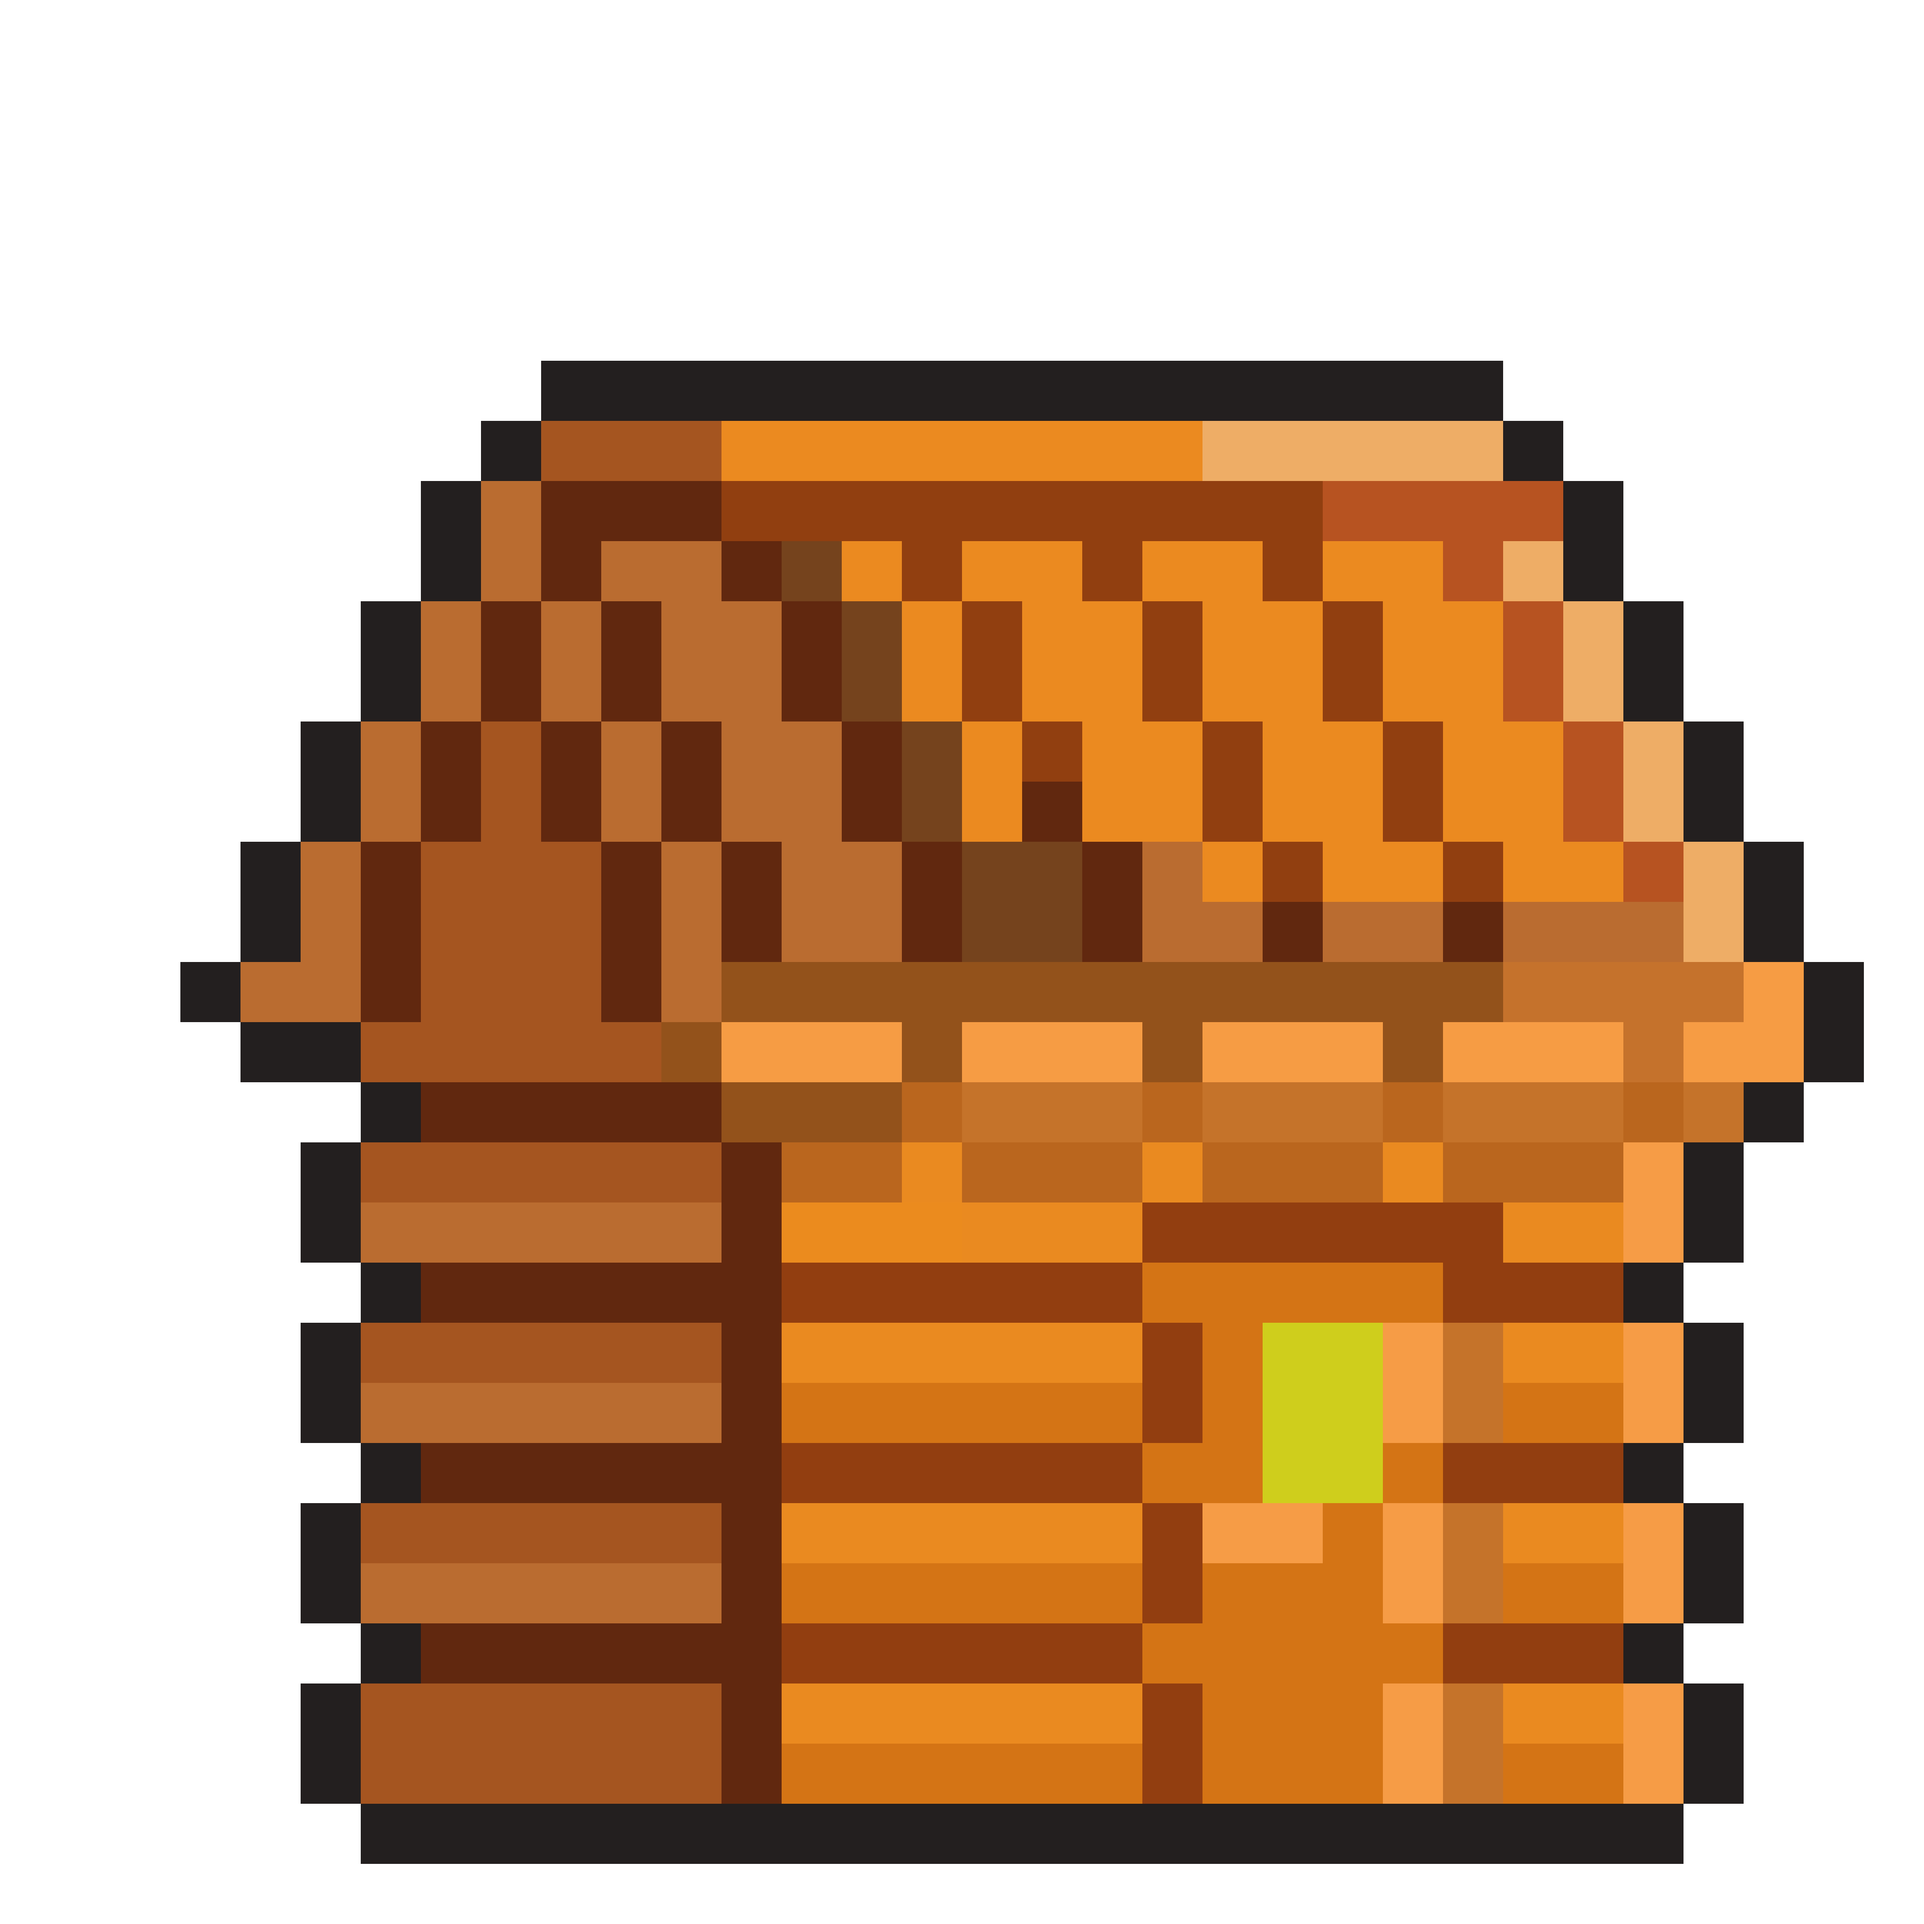
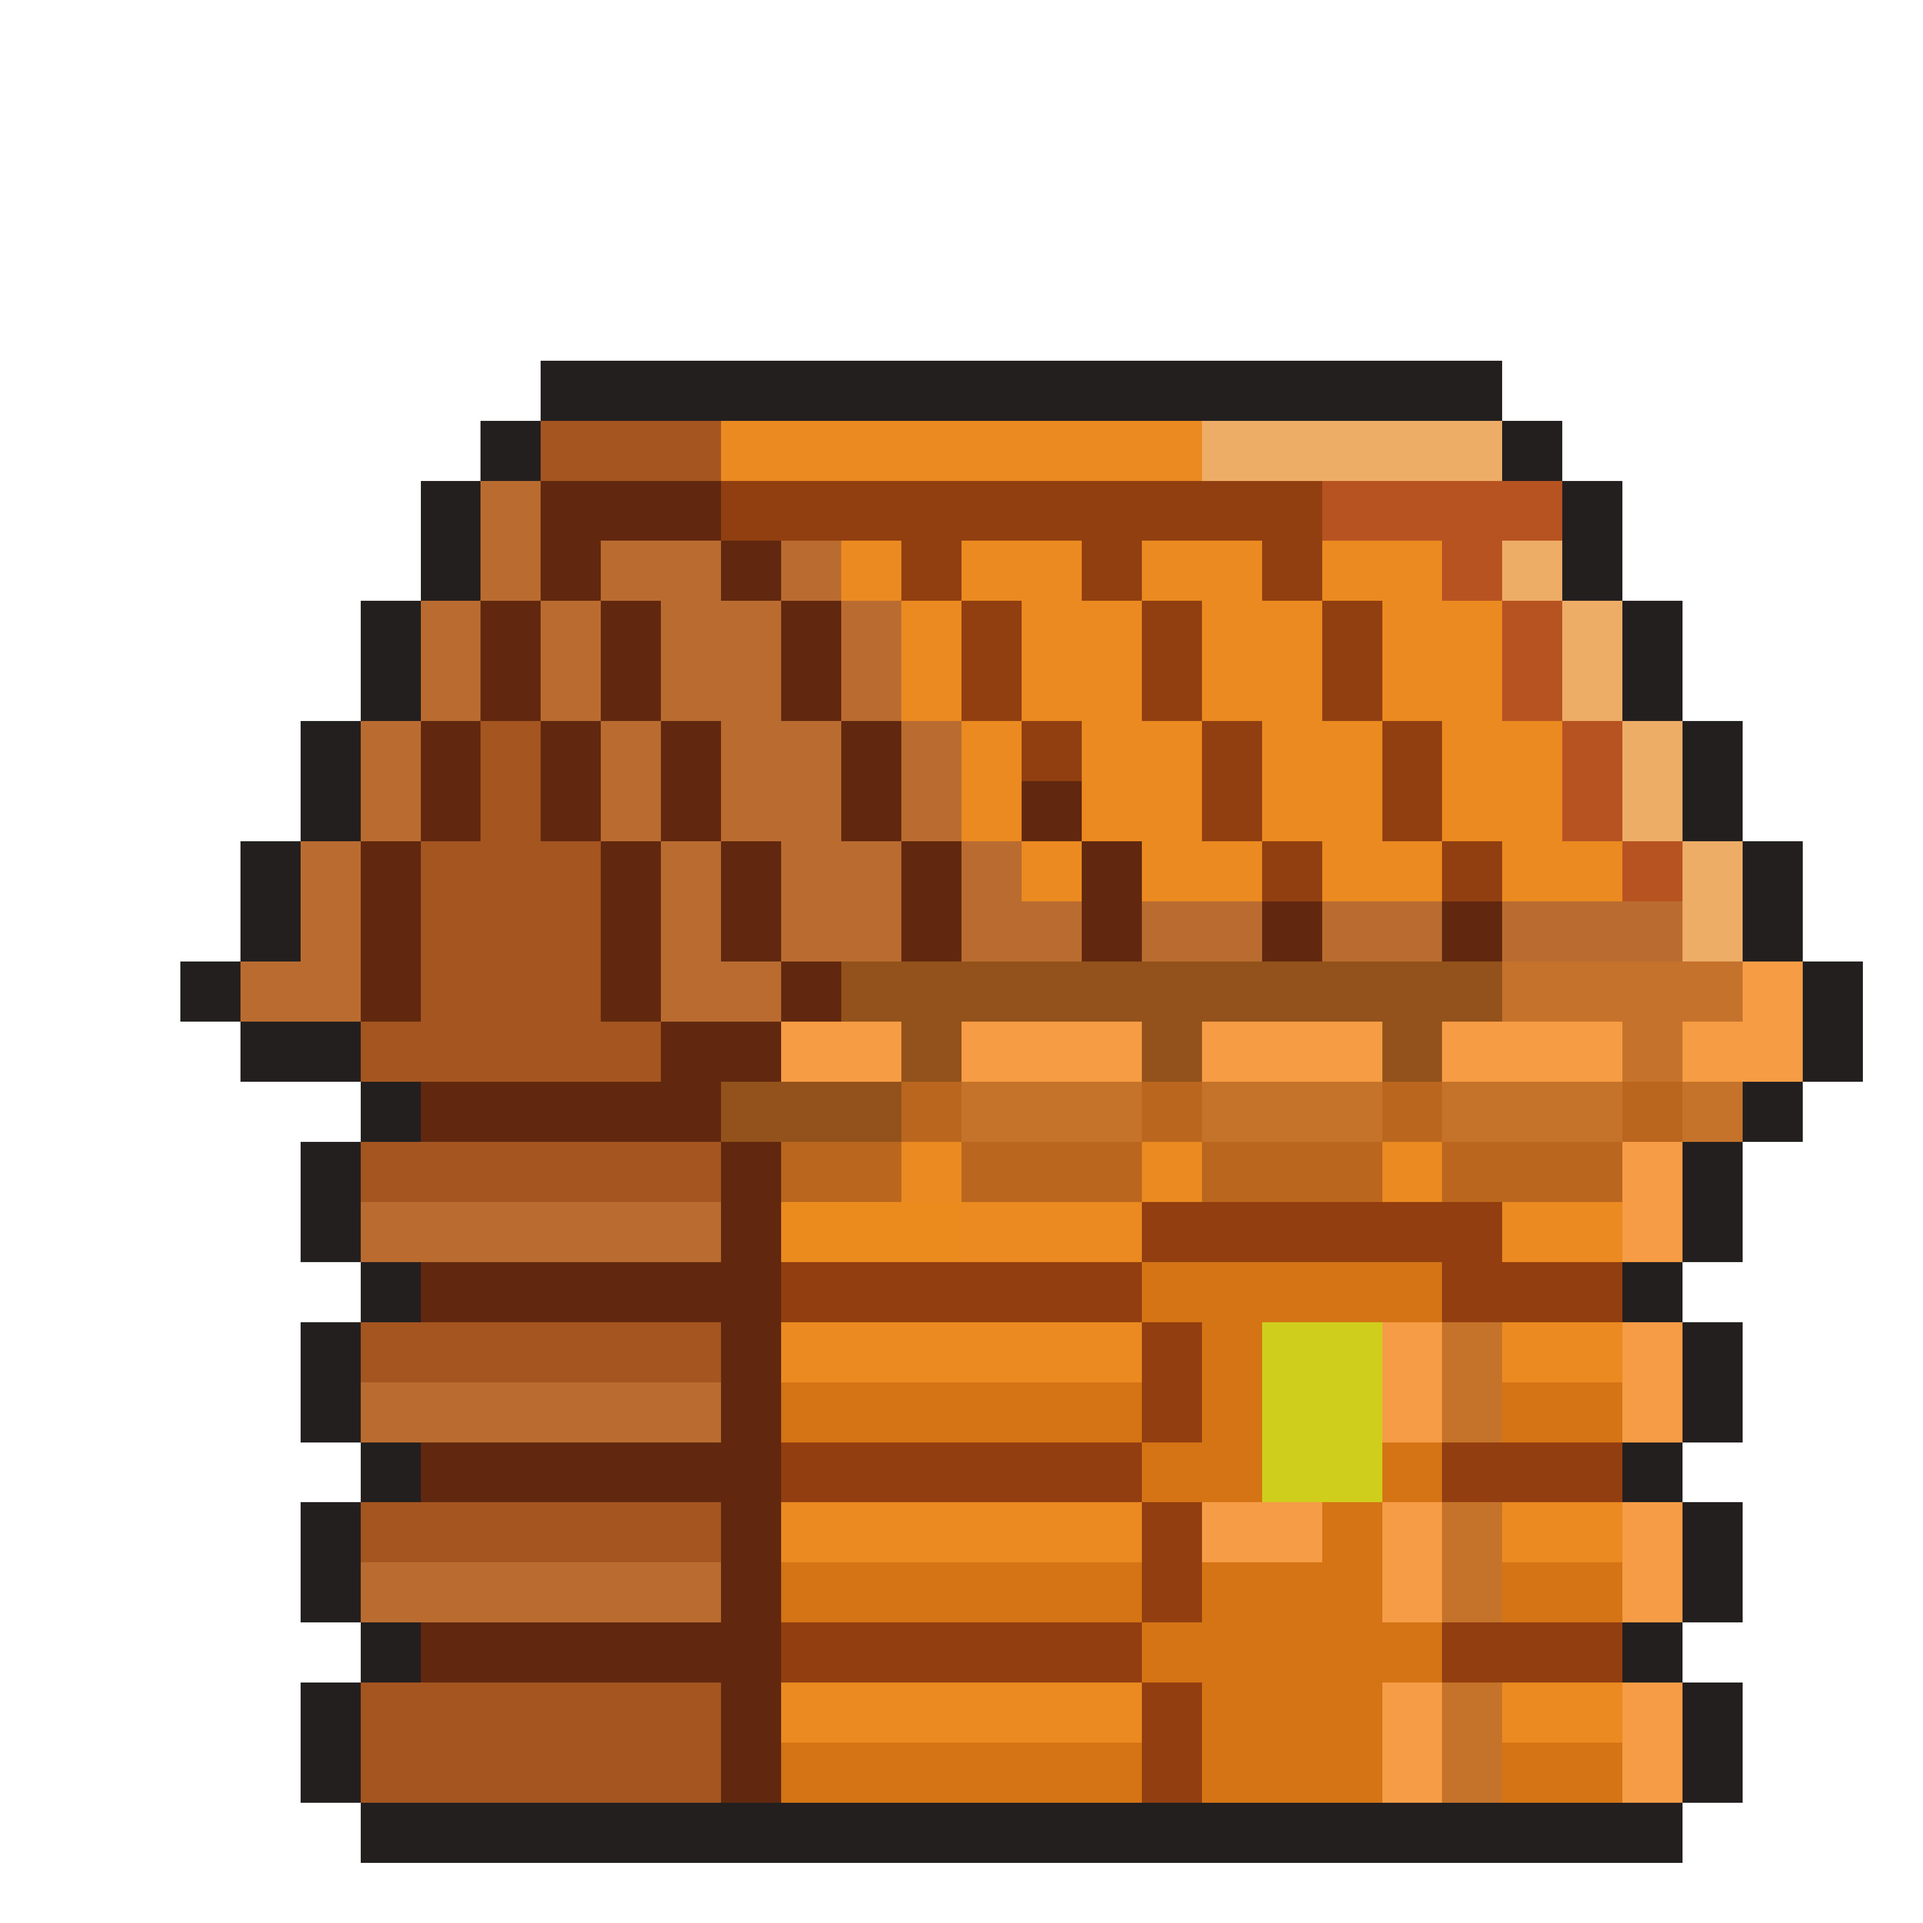
updated house sprites

Changed region(s): [[0.4033, 0.2792, 0.6514, 0.5274], [0.3412, 0.4963, 0.4343, 0.5894]]

diff --git a/assets/css/style.css b/assets/css/style.css
@@ -57,7 +57,8 @@ body {
 .treespecial {background-image: url(/assets/images/specialtree.png);}
 .hut {background-image: url(/assets/images/hut.png);}
 .hutspecial {background-image: url(/assets/images/hutspecial.png);}
-.house {background-image: url(/assets/images/image-removebg-preview\ \(3\).png);}
+.house {background-image: url(/assets/images/house.png);}
+.housespecial {background-image: url(/assets/images/housespecial.png);}
 
 
 #score-popup {
